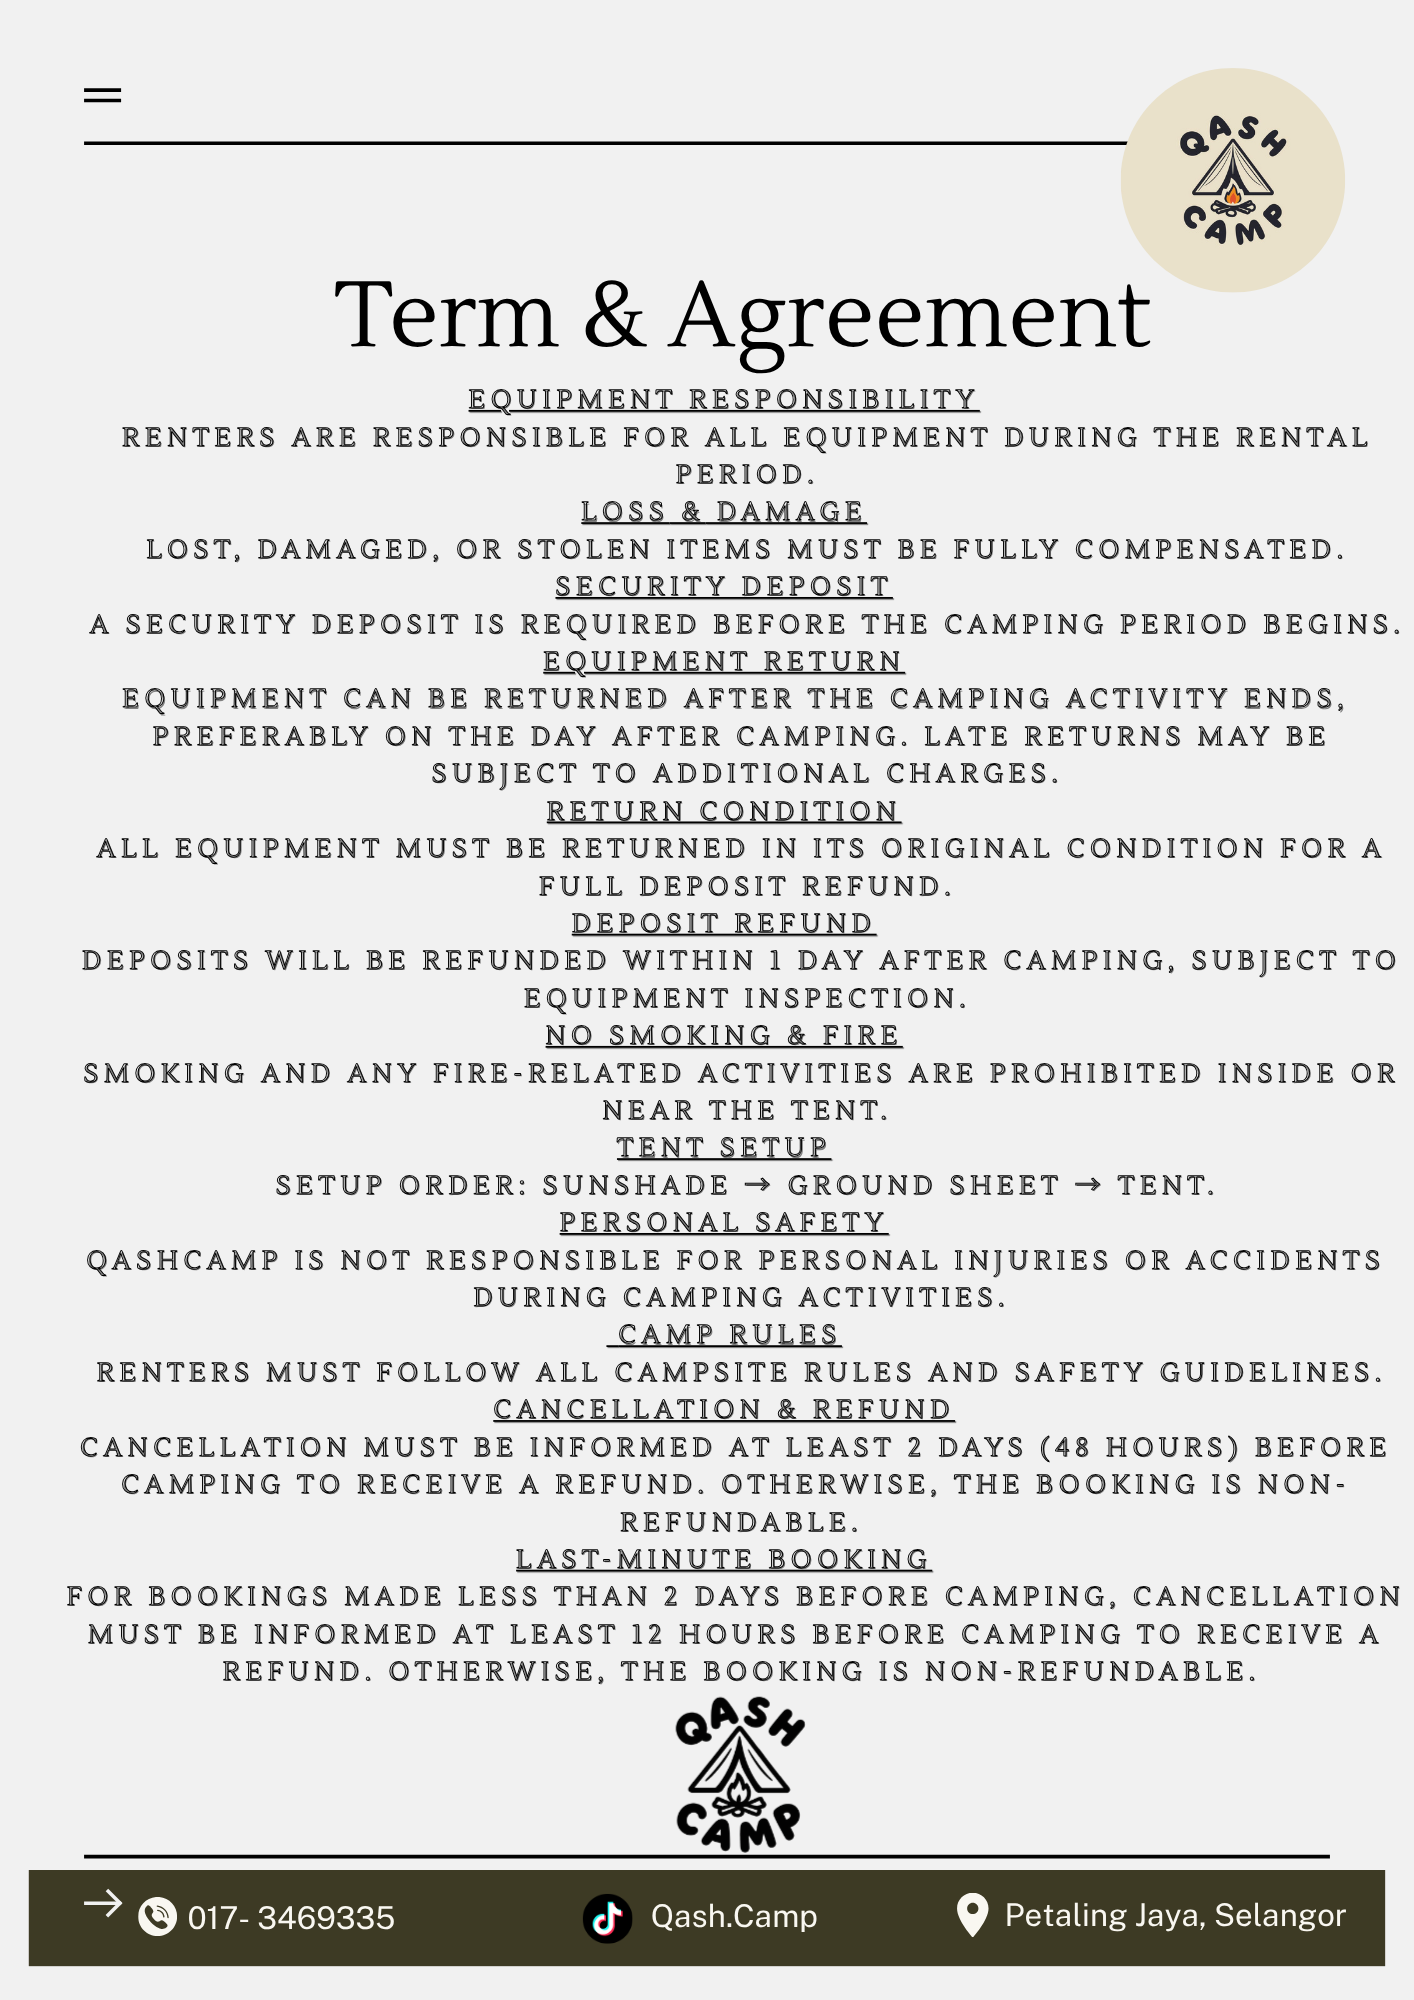
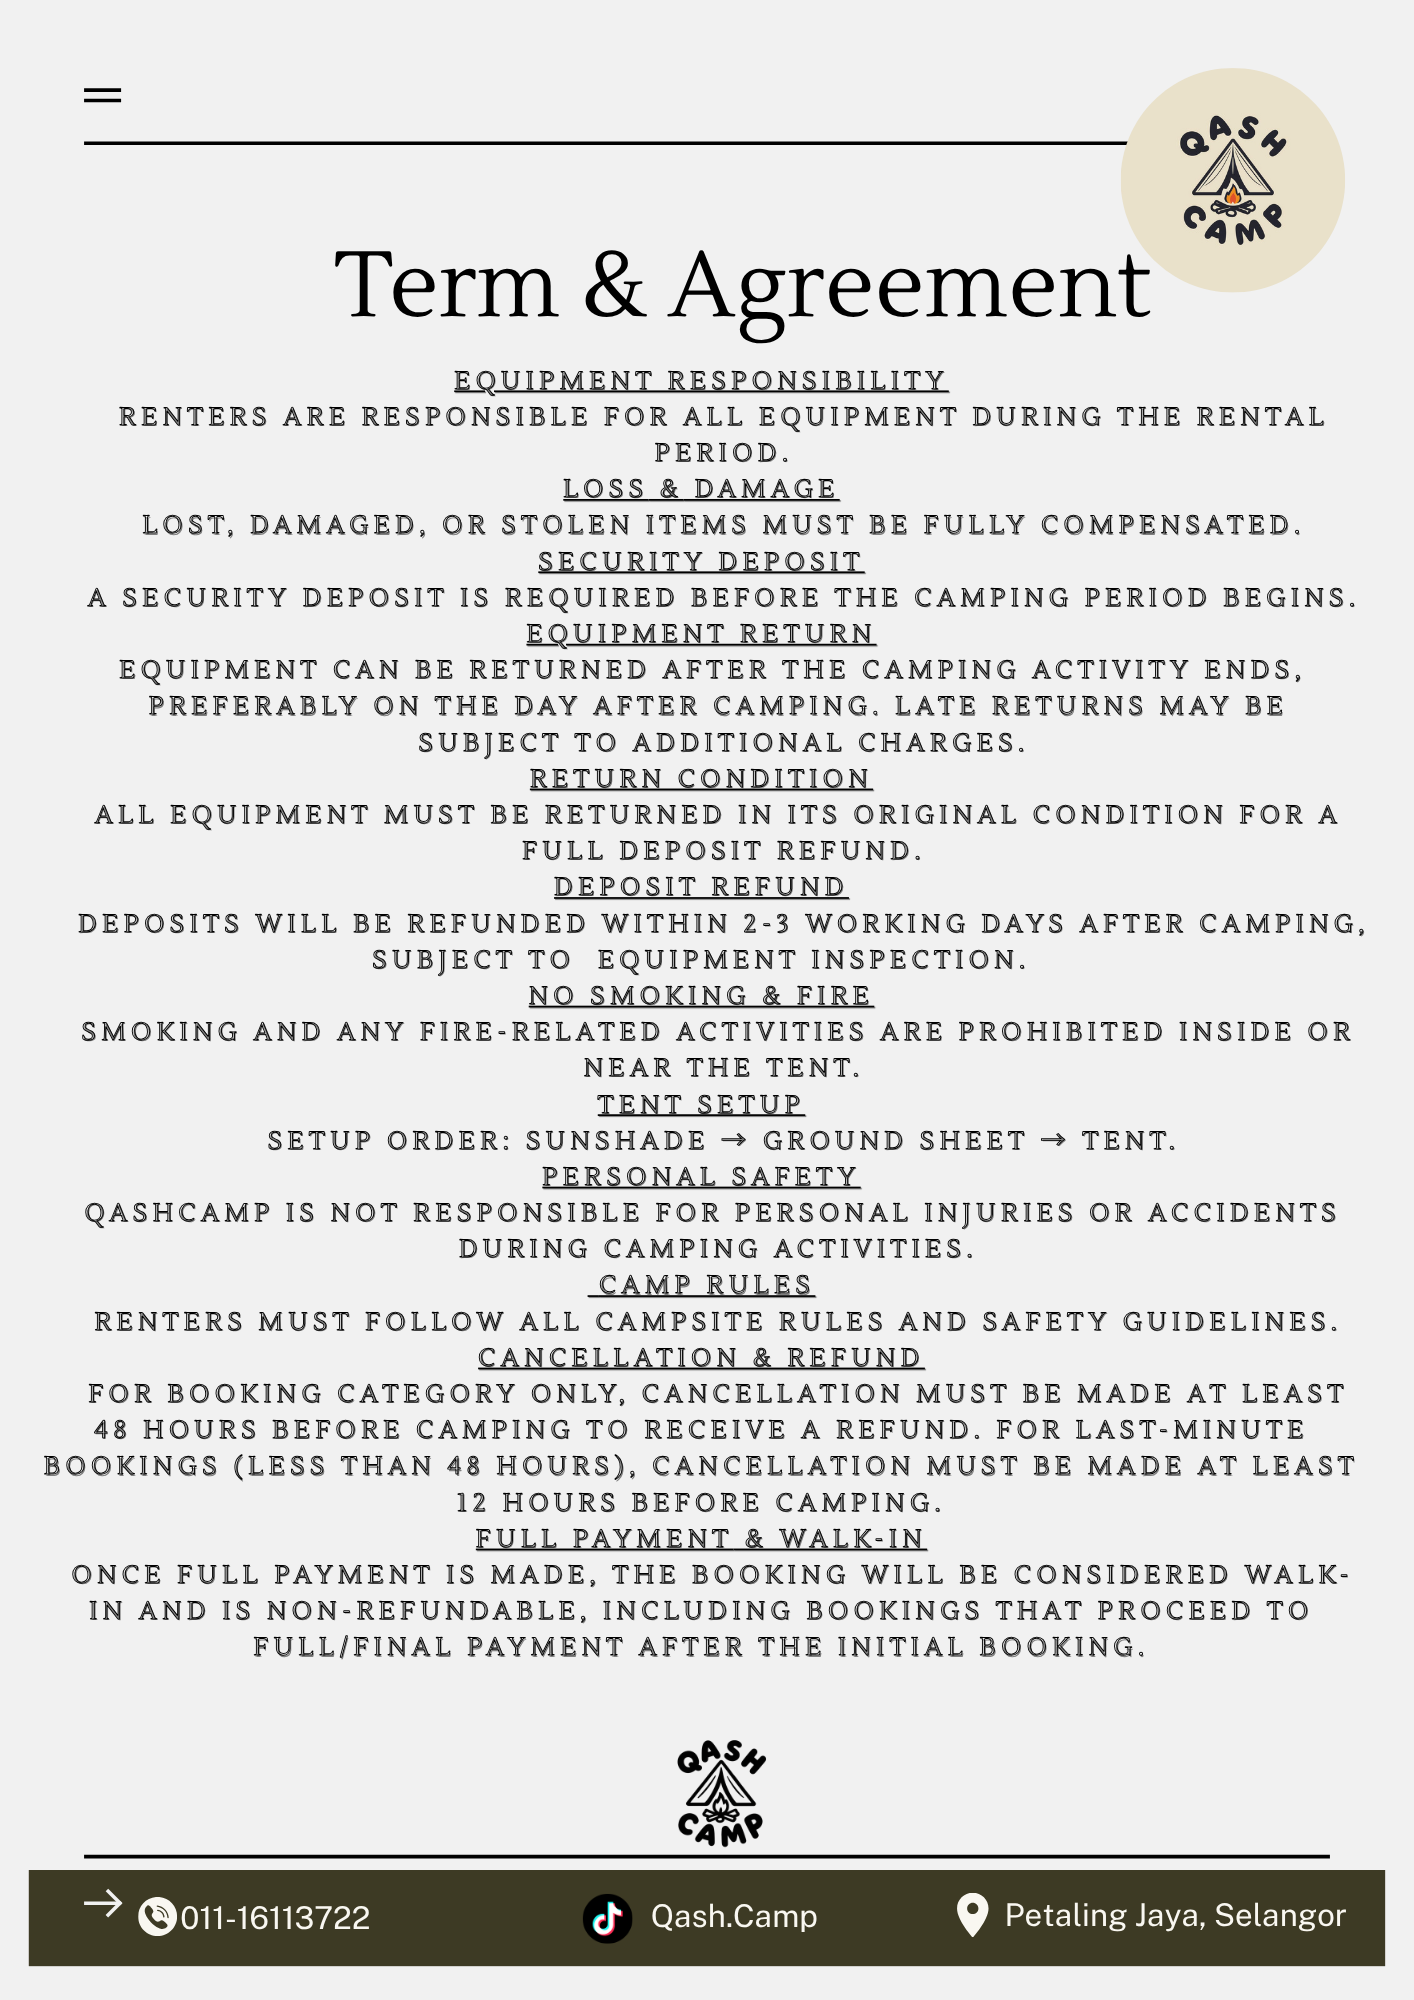
enhance: picture for awan purnama and senja

Changed region(s): [[0.0311, 0.124, 0.9958, 0.93], [0.1245, 0.93, 0.2801, 0.961]]

diff --git a/src/components/TermsModal.jsx b/src/components/TermsModal.jsx
@@ -68,13 +68,14 @@ const handleAgree = () => {
           <div><strong>3. Security Deposit</strong><p>A security deposit is required before the camping period begins.</p></div>
           <div><strong>4. Equipment Return</strong><p>Equipment can be returned after the camping activity ends, preferably on the day after camping. Late returns may be subject to additional charges.</p></div>
           <div><strong>5. Return Condition</strong><p>All equipment must be returned in its original condition for a full deposit refund.</p></div>
-          <div><strong>6. Deposit Refund</strong><p>Deposits will be refunded within 1 day after camping, subject to equipment inspection.</p></div>
+          <div><strong>6. Deposit Refund</strong><p>Deposits will be refunded within 2-3 working days after camping, subject to equipment inspection.</p></div>
           <div><strong>7. No Smoking &amp; Fire</strong><p>Smoking and any fire-related activities are prohibited inside or near the tent.</p></div>
           <div><strong>8. Tent Setup</strong><p>Setup order: sunshade → ground sheet → tent.</p></div>
           <div><strong>9. Personal Safety</strong><p>QashCamp is not responsible for personal injuries or accidents during camping activities.</p></div>
           <div><strong>10. Camp Rules</strong><p>Renters must follow all campsite rules and safety guidelines.</p></div>
-          <div><strong>11. Cancellation &amp; Refund</strong><p>Cancellation must be informed at least 2 days (48 hours) before camping to receive a refund. Otherwise, the booking is non-refundable.</p></div>
-          <div><strong>12. Last-Minute Booking</strong><p>For bookings made less than 2 days before camping, cancellation must be informed at least 12 hours before camping to receive a refund. Otherwise, the booking is non-refundable.</p></div>
+          <div><strong>11. Full Payment & Walk-In</strong><p>Once full payment is made, the booking will be considered Walk-In and is non-refundable, including bookings that proceed to full/final payment after the initial booking.</p></div>
+          <div><strong>12. Cancellation &amp; Refund</strong><p>For Booking category only, cancellation must be made at least 48 hours before camping to receive a refund. For last-minute bookings (less than 48 hours), cancellation must be made at least 12 hours before camping.</p></div>
+          <div><strong>13. Last-Minute Booking</strong><p>For bookings made less than 2 days before camping, cancellation must be informed at least 12 hours before camping to receive a refund. Otherwise, the booking is non-refundable.</p></div>
         </div>
 
         {/* Signature Box */}

diff --git a/src/components/PackagesSection.jsx b/src/components/PackagesSection.jsx
@@ -1,3 +1,15 @@
+import awanAds1 from "@/assets/awan_ads1.webp";
+import awanAds2 from "@/assets/awan_ads2.webp";
+import awanAds3 from "@/assets/awan_ads3.webp";
+import awanAds4 from "@/assets/awan_ads4.webp";
+import purnamaAds1 from "@/assets/purnama_ads1.webp";
+import purnamaAds2 from "@/assets/purnama_ads2.webp";
+import purnamaAds3 from "@/assets/purnama_ads3.webp";
+import purnamaAds4 from "@/assets/purnama_ads4.webp";
+import senjaAds1 from "@/assets/senja_ads1.webp";
+import senjaAds2 from "@/assets/senja_ads2.webp";
+import senjaAds3 from "@/assets/senja_ads3.webp";
+import senjaAds4 from "@/assets/senja_ads4.webp";
 import { useEffect, useState } from "react";
 import { Card, CardContent } from "./ui/Card";
 import { Button } from "./ui/Button";
@@ -36,6 +48,9 @@ export default function PackageSection() {
 
   useEffect(() => {
     const sliderImages = [
+      awanAds1, awanAds2, awanAds3, awanAds4,
+      purnamaAds1, purnamaAds2, purnamaAds3, purnamaAds4,
+      senjaAds1, senjaAds2, senjaAds3, senjaAds4,
       lestariAds1, lestariAds2, lestariAds3, lestariAds4,
       embunAds1, embunAds2, embunAds3, embunAds4,
       auroraAds1, auroraAds2, auroraAds3, auroraAds4,
@@ -80,6 +95,7 @@ export default function PackageSection() {
       displayName: "Package Awan",
       name: "Awan",
       img: packageAwanImg,
+      images: [packageAwanImg, awanAds1, awanAds2, awanAds3, awanAds4],
       price: "RM70",
       packagePrice: 70,
       depositAmount: 50,
@@ -97,6 +113,7 @@ export default function PackageSection() {
       displayName: "Package Purnama",
       name: "Purnama",
       img: packagePurnamaImg,
+      images: [packagePurnamaImg, purnamaAds1, purnamaAds2, purnamaAds3, purnamaAds4],
       price: "RM90",
       packagePrice: 90,
       depositAmount: 50,
@@ -114,6 +131,7 @@ export default function PackageSection() {
       displayName: "Package Senja",
       name: "Senja",
       img: packageSenjaImg,
+      images: [packageSenjaImg, senjaAds1, senjaAds2, senjaAds3, senjaAds4],
       price: "RM100",
       packagePrice: 100,
       depositAmount: 50,

diff --git a/src/pages/Booking.jsx b/src/pages/Booking.jsx
@@ -1,3 +1,15 @@
+import awanAds1 from "../assets/awan_ads1.webp";
+import awanAds2 from "../assets/awan_ads2.webp";
+import awanAds3 from "../assets/awan_ads3.webp";
+import awanAds4 from "../assets/awan_ads4.webp";
+import purnamaAds1 from "../assets/purnama_ads1.webp";
+import purnamaAds2 from "../assets/purnama_ads2.webp";
+import purnamaAds3 from "../assets/purnama_ads3.webp";
+import purnamaAds4 from "../assets/purnama_ads4.webp";
+import senjaAds1 from "../assets/senja_ads1.webp";
+import senjaAds2 from "../assets/senja_ads2.webp";
+import senjaAds3 from "../assets/senja_ads3.webp";
+import senjaAds4 from "../assets/senja_ads4.webp";
 import { useState, useEffect } from "react";
 import { useLocation } from "react-router-dom";
 import { useParams } from "react-router-dom";
@@ -140,6 +152,9 @@ export default function Booking() {
   };
 
   const latestPackagePhotos = {
+    Awan: [awanAds1, awanAds2, awanAds3, awanAds4],
+    Purnama: [purnamaAds1, purnamaAds2, purnamaAds3, purnamaAds4],
+    Senja: [senjaAds1, senjaAds2, senjaAds3, senjaAds4],
     Lestari: [lestariAds1, lestariAds2, lestariAds3, lestariAds4],
     Embun: [embunAds1, embunAds2, embunAds3, embunAds4],
     Aurora: [auroraAds1, auroraAds2, auroraAds3, auroraAds4],
